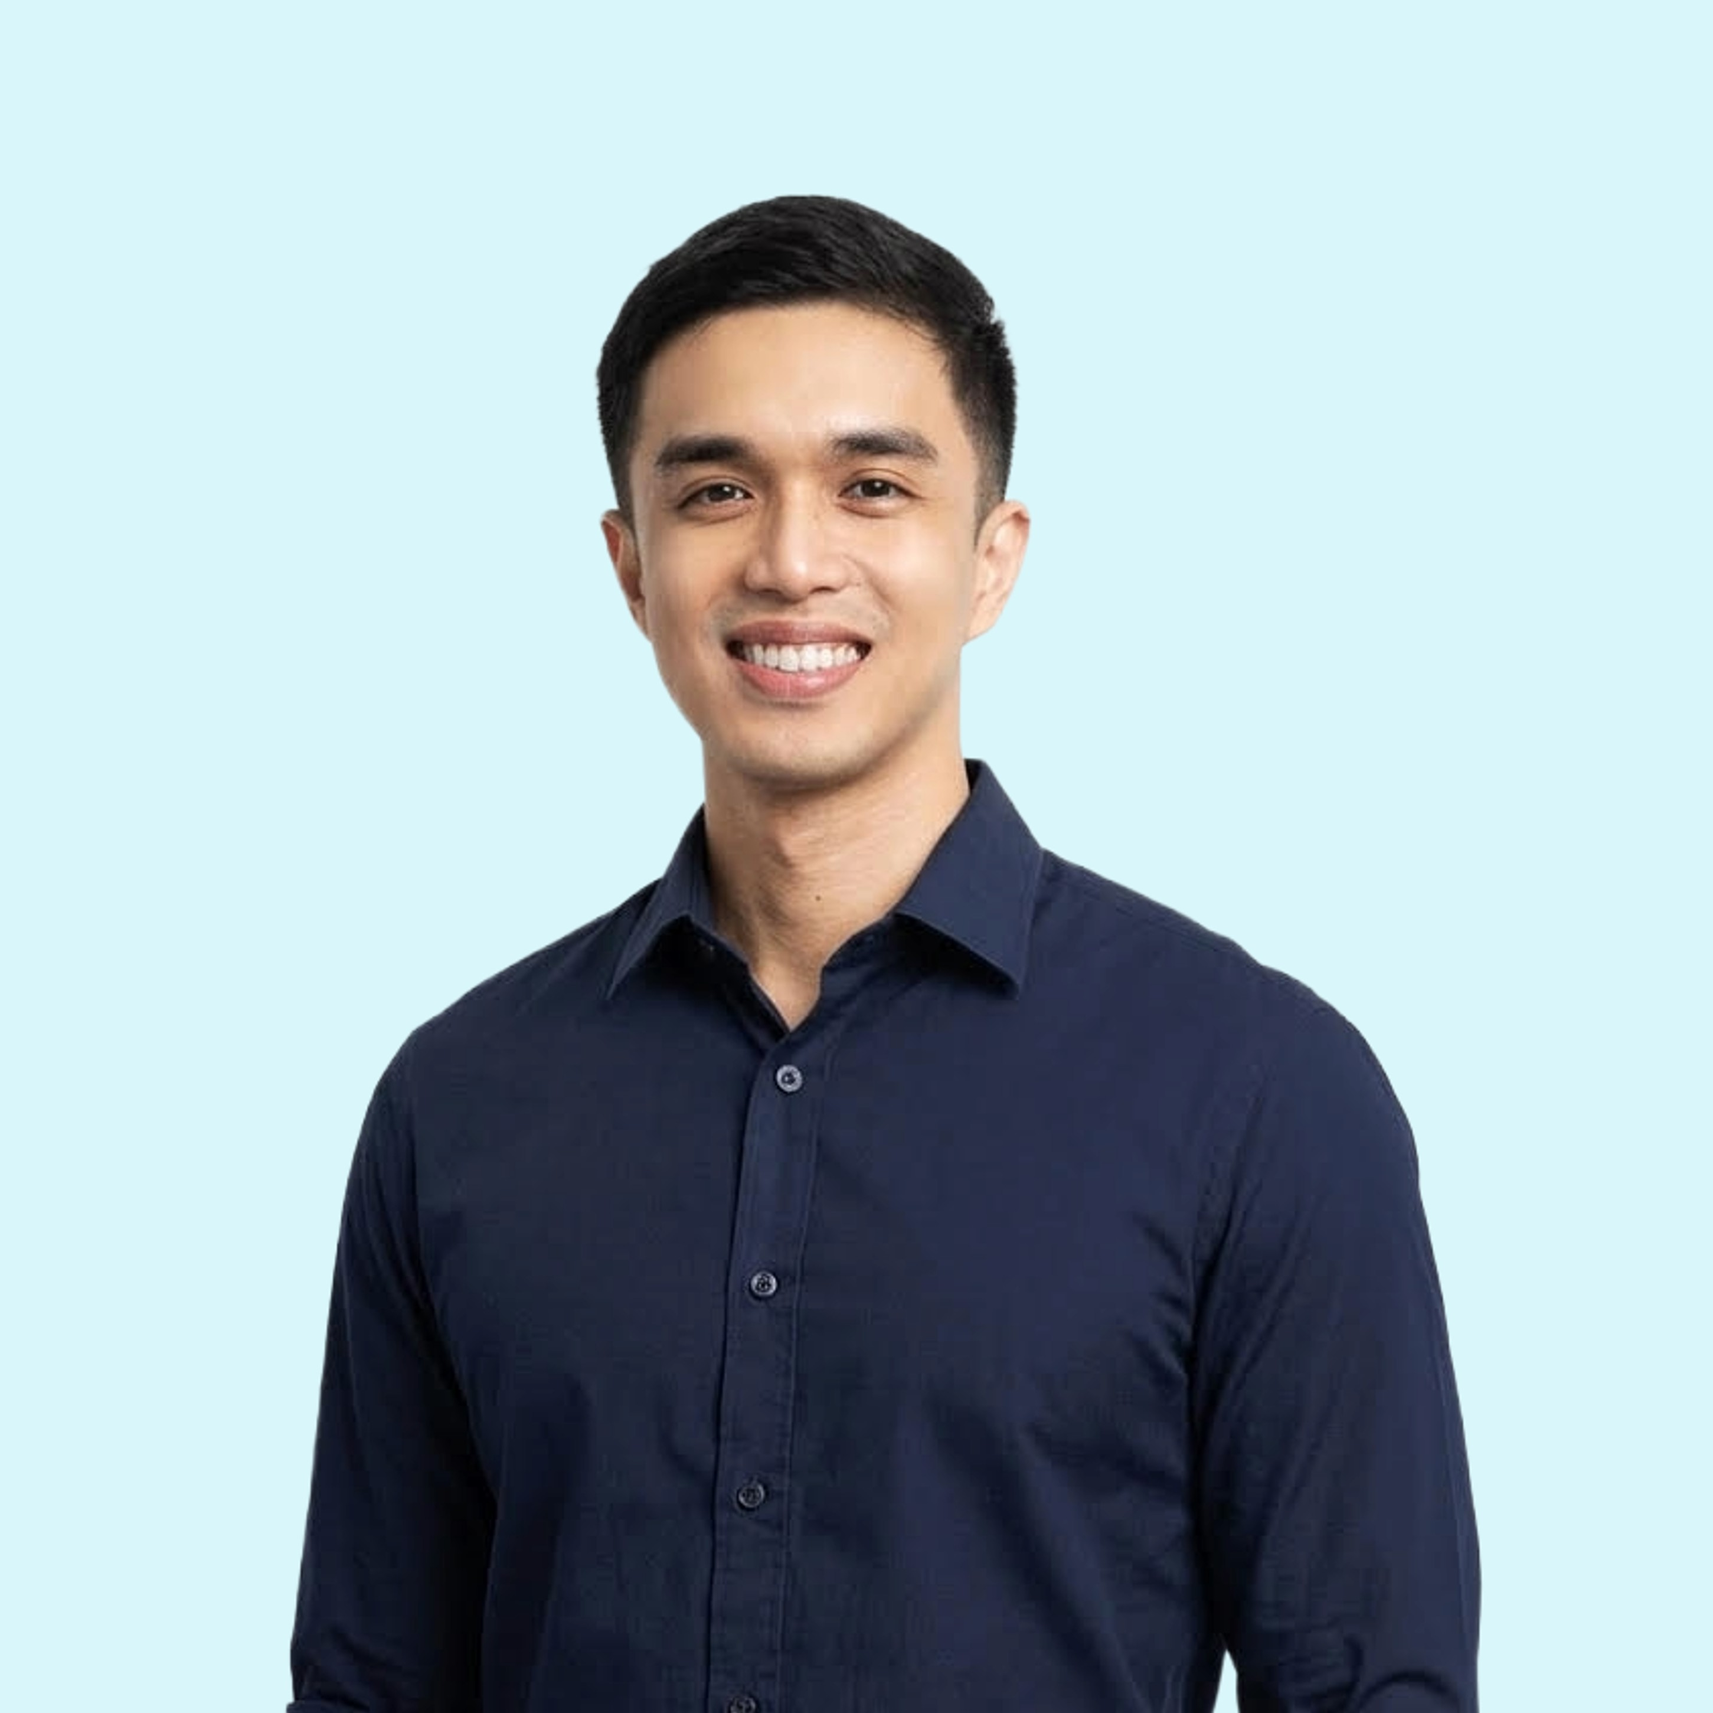
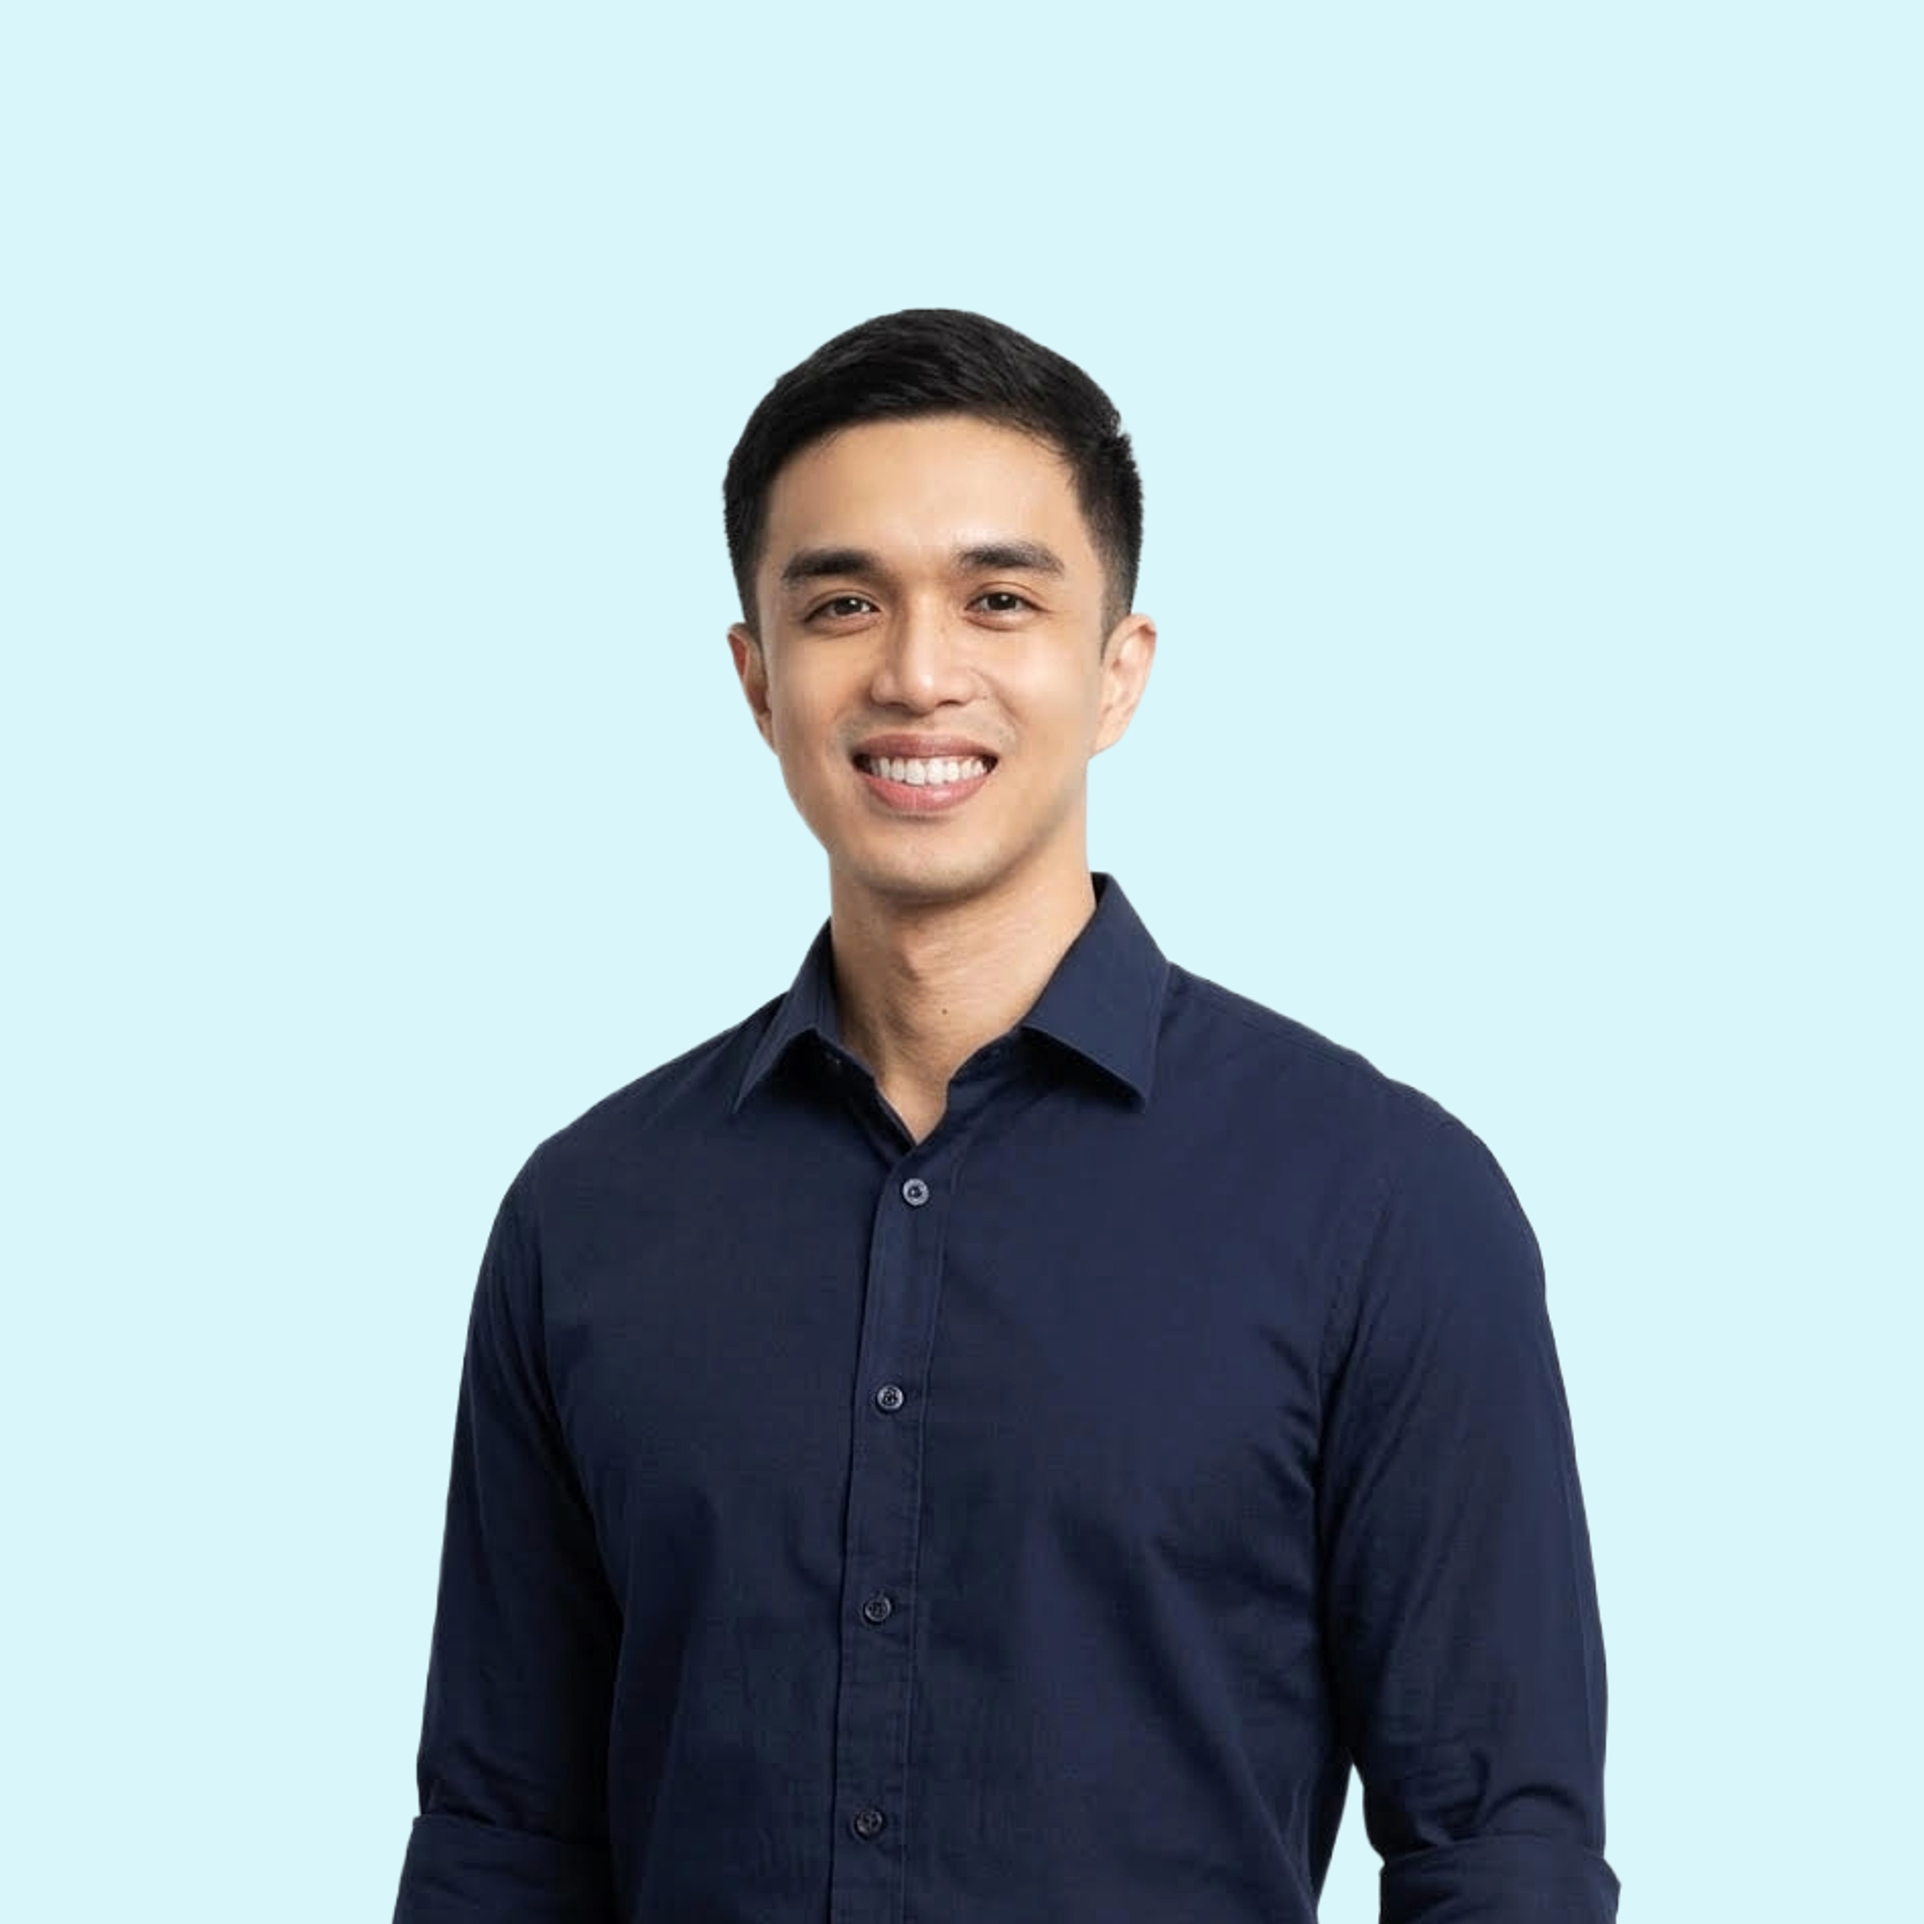
Rephrased tagline

diff --git a/index.html b/index.html
@@ -39,8 +39,8 @@
           <div class="header-name-block">
             <h1>Hi, <br>I'm <span>Kevin</span>.</h1>
             <p class="subtitle">
-              <span class="tagline-line">I design <span class="highlight">data-driven learning experiences</span> that</span>
-              <span class="tagline-line">help people do their jobs competently and confidently.</span>
+              <span class="tagline-line">I help people do their jobs competently and confidently</span>
+              <span class="tagline-line">by designing <span class="highlight">data-driven learning systems</span>.</span>
             </p>
           </div>
         </div>
